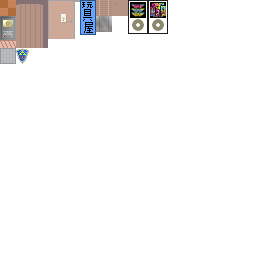
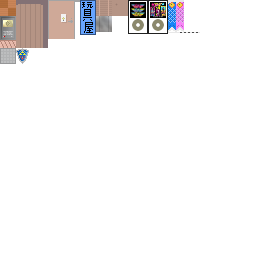
implement things

Changed region(s): [[0.6562, 0.0, 0.7188, 0.125]]

diff --git a/src/GGFanGame/Game/Stages/GrumpSpace/Koinobori.cs b/src/GGFanGame/Game/Stages/GrumpSpace/Koinobori.cs
@@ -1,0 +1,64 @@
+using GameDevCommon.Rendering;
+using GameDevCommon.Rendering.Composers;
+using GameDevCommon.Rendering.Texture;
+using GGFanGame.Content;
+using GGFanGame.DataModel.Game;
+using Microsoft.Xna.Framework;
+using Microsoft.Xna.Framework.Graphics;
+
+namespace GGFanGame.Game.Stages.GrumpSpace
+{
+    [StageObject("koinobori", "grumpSpace", "main")]
+    class Koinobori : SceneryObject
+    {
+        public Koinobori()
+        {
+            Collision = false;
+            CanLandOn = false;
+            GravityAffected = false;
+            IsOpaque = false;
+
+            AddStaticAnimation(168, 0, 32, 33);
+        }
+
+        protected override void LoadContentInternal()
+        {
+            SpriteSheet = new SpriteSheet(ParentStage.Content.Load<Texture2D>(Resources.Levels.GrumpSpace.Main));
+        }
+
+        protected override void CreateGeometry()
+        {
+            var textureRect = new Rectangle(0, 0, 32, 33);
+            // pole
+            {
+                var vertices = CylinderComposer.Create(0.01f, 0.6f, 10,
+                    new GeometryTextureRectangle(new Rectangle(0, 32, 32, 1), textureRect),
+                    new GeometryTextureRectangle(new Rectangle(0, 0, 1, 1), textureRect));
+
+                VertexTransformer.Rotate(vertices, new Vector3(0, 0, MathHelper.PiOver4));
+                VertexTransformer.Rotate(vertices, new Vector3(0, -MathHelper.PiOver2, 0));
+                Geometry.AddVertices(vertices);
+            }
+            // flag 1
+            {
+                var vertices = RectangleComposer.Create(0.1f, 0.4f,
+                    new GeometryTextureRectangle(new Rectangle(0, 0, 8, 32), textureRect));
+
+                VertexTransformer.Rotate(vertices, new Vector3(0, 0, MathHelper.PiOver2));
+                VertexTransformer.Rotate(vertices, new Vector3(MathHelper.PiOver2, 0, 0));
+                VertexTransformer.Offset(vertices, new Vector3(0, -0.25f, 0));
+                Geometry.AddVertices(vertices);
+            }
+            // flag 2
+            {
+                var vertices = RectangleComposer.Create(0.1f, 0.4f,
+                    new GeometryTextureRectangle(new Rectangle(8, 0, 8, 32), textureRect));
+
+                VertexTransformer.Rotate(vertices, new Vector3(0, 0, MathHelper.PiOver2));
+                VertexTransformer.Rotate(vertices, new Vector3(MathHelper.PiOver2, 0, 0));
+                VertexTransformer.Offset(vertices, new Vector3(0, -0.05f, 0.2f));
+                Geometry.AddVertices(vertices);
+            }
+        }
+    }
+}

diff --git a/src/GGFanGame/Screens/Game/GrumpSpaceScreen.cs b/src/GGFanGame/Screens/Game/GrumpSpaceScreen.cs
@@ -216,8 +216,8 @@ namespace GGFanGame.Screens.Game
             {
                 // copy stages from content to output:
                 // DEBUG
-                var sourceDir = @"C:\Users\Nils\Projects\git\GGFanGame\GGFanGame\GGFanGame.Content\Content\Levels";
-                var targetDir = @"C:\Users\Nils\Projects\git\GGFanGame\GGFanGame\GGFanGame\bin\Windows\Debug\Content\Levels";
+                var sourceDir = @"C:\Users\Nils\Projects\git\GGFanGame\src\GGFanGame.Content\Content\Levels";
+                var targetDir = @"C:\Users\Nils\Projects\git\GGFanGame\src\GGFanGame\bin\Windows\Debug\Content\Levels";
                 foreach (var sourceFile in Directory.GetFiles(sourceDir, "*.json", SearchOption.AllDirectories))
                 {
                     var targetFile = sourceFile.Replace(sourceDir, targetDir);
@@ -260,6 +260,9 @@ namespace GGFanGame.Screens.Game
                 _stage = null;
                 _stageTarget = null;
                 _blur = null;
+                _titleTarget = null;
+                _titleBatch = null;
+                _titleBackground = null;
             }
 
             base.Dispose(disposing);

diff --git a/src/GGFanGame.Content/ResourceNames.cs b/src/GGFanGame.Content/ResourceNames.cs
@@ -27,8 +27,6 @@ namespace GGFanGame.Content
             public static class GrumpSpace
             {
                 public const string Main = "Levels/GrumpSpace/Main";
-                public const string OfficeDoor = "Levels/GrumpSpace/OfficeDoor";
-                public const string PlayButton = "Levels/GrumpSpace/PlayButton";
                 
                 public static class Posters
                 {
@@ -39,8 +37,6 @@ namespace GGFanGame.Content
                     public const string UpDog = "Levels/GrumpSpace/Posters/UpDog";
                 }
                 public const string stage = "Levels/GrumpSpace/stage";
-                public const string WoodenFloor = "Levels/GrumpSpace/WoodenFloor";
-                public const string WoodenWall = "Levels/GrumpSpace/WoodenWall";
             }
             
             public static class Stage1_1
